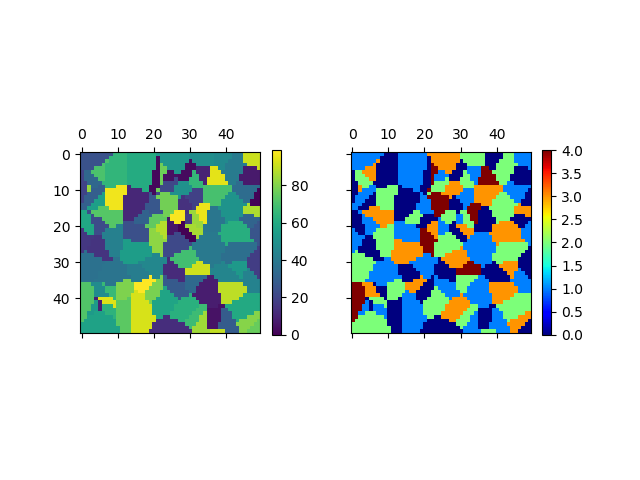
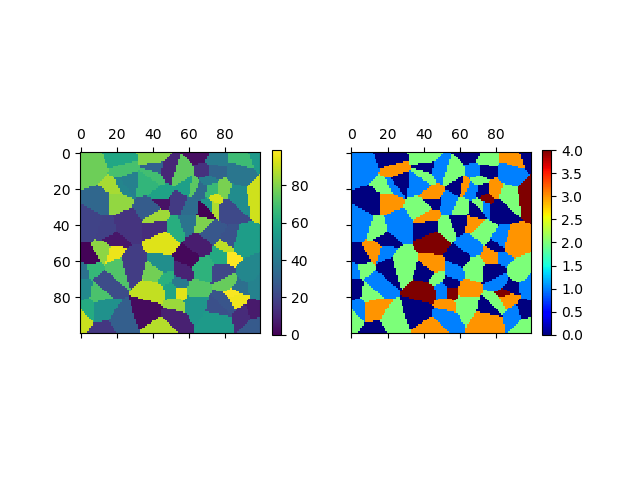
Default input shape to 100x100 	modified:   color4.py 	modified:   images/4colors.png

diff --git a/color4.py b/color4.py
@@ -11,7 +11,7 @@ import scipy.ndimage
 import matplotlib.pyplot as plt
 
 
-def generate_input(shape=(50, 50), ncenters=100):
+def generate_input(shape=(100, 100), ncenters=100):
     """
     Voronoi tesselation on a 2D array
     """
